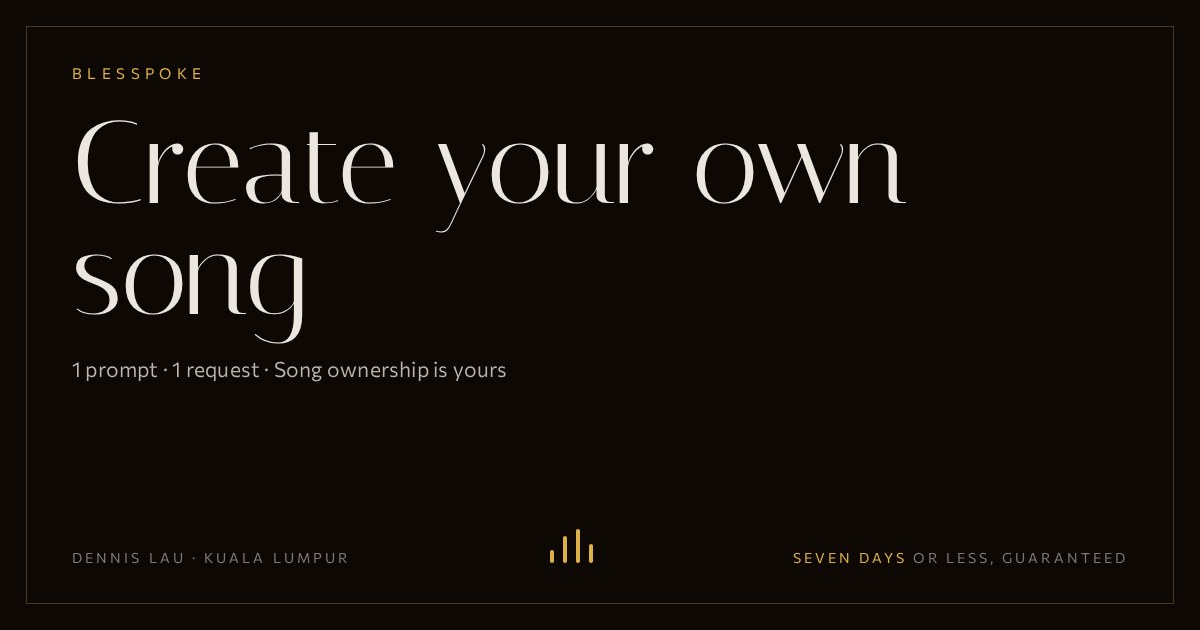
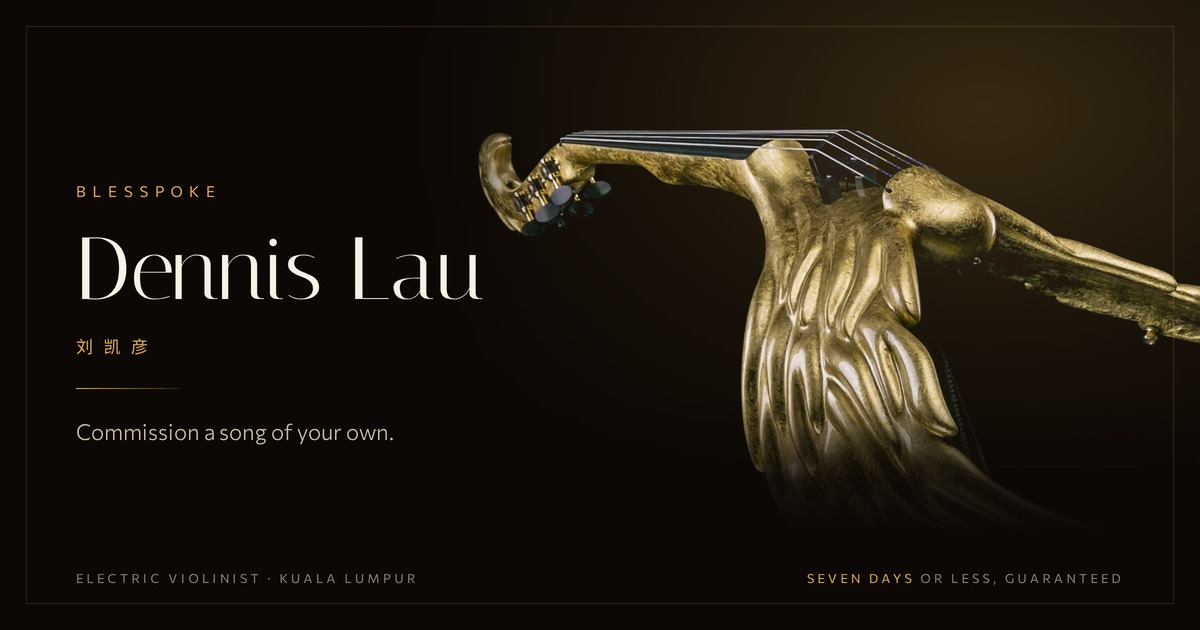
A mark of his own, a card worth sharing, and metadata that says what this is
The favicon was four gold bars at the heights of a signal, which is every
audio product on the internet and nothing to do with Dennis. His violin is
carved as a bird's wing, so the wing is the mark: three feathers off one
shoulder, gold on lacquer.

Three and not five. Five is the better drawing at 128px and unreadable at
16, where every feather gets two pixels and the gaps between them get one,
and 16 is the only size a favicon is ever actually seen at. Filled leaves
rather than strokes, because an SVG stroke cannot taper and an untapered
fan reads as a comb. Four sizes ship, plus a touch icon that bleeds to its
own edges because the OS rounds that one itself.

The share card was all type on black with the bottom half empty and no
sign of him anywhere. It is the Phoenix now, lit against lacquer with his
name in Italiana beside it. The photograph is composited with lighten
rather than pasted: it is on pure black, the ground is warm, and dropping
it in as a rectangle leaves a seam down its left edge. The display stand
sinks into a floor gradient, which is also how the page treats it.

Both generators are checked in under tools/ this time. The old one was
not, and the handoff had to say so.

The metadata was thin and the description opened on "One prompt. One
request.", which is the clipped-fragment tic we have been taking out of
the page all week. There is now a canonical, a manifest, a sitemap that
lists only the homepage — the concept routes are client-side and Pages
[…]

diff --git a/index.html b/index.html
@@ -3,44 +3,140 @@
   <head>
     <meta charset="UTF-8" />
     <meta name="viewport" content="width=device-width, initial-scale=1, viewport-fit=cover" />
-    <title>Blesspoke · Create your own song</title>
+
+    <title>Blesspoke · Commission a song from Dennis Lau</title>
     <meta
       name="description"
-      content="One prompt. One request. One song, written and produced for you by Dennis Lau, guaranteed in seven days or less, and the ownership is yours."
+      content="Malaysia's foremost electric violinist writes and produces one original song for you. A sample inside seven days, and the finished song is yours outright."
     />
+    <meta name="author" content="Dennis Lau" />
+    <link rel="canonical" href="%VITE_SITE_URL%/" />
+    <meta name="robots" content="index, follow, max-image-preview:large" />
+
+    <!-- The mark is three feathers off one shoulder: his six-string violin, the
+         Phoenix, is carved as a bird's wing. SVG first for anything modern, the
+         two PNGs for browsers that still want a raster, and the touch icon
+         bleeds to its own edges because the OS rounds that one itself. -->
     <link rel="icon" href="%VITE_BASE%icon.svg" type="image/svg+xml" />
-    <link rel="apple-touch-icon" href="%VITE_BASE%icon.svg" />
+    <link rel="icon" href="%VITE_BASE%favicon-32.png" sizes="32x32" type="image/png" />
+    <link rel="icon" href="%VITE_BASE%favicon-16.png" sizes="16x16" type="image/png" />
+    <link rel="apple-touch-icon" href="%VITE_BASE%apple-touch-icon.png" />
+    <link rel="manifest" href="%VITE_BASE%site.webmanifest" />
 
     <!-- The origin comes from VITE_SITE_URL at build time; see .env. Link
-         scrapers do not reliably resolve a relative image, so once the
-         publishing account is settled this must be an absolute URL. -->
+         scrapers do not reliably resolve a relative image, so this must be an
+         absolute URL. -->
     <meta property="og:type" content="website" />
     <meta property="og:site_name" content="Blesspoke" />
-    <meta property="og:title" content="Blesspoke · Create your own song" />
+    <meta property="og:locale" content="en_MY" />
+    <meta property="og:title" content="Dennis Lau · Commission a song of your own" />
     <meta
       property="og:description"
-      content="One prompt. One request. One song, written and produced for you by Dennis Lau, guaranteed in seven days or less, and the ownership is yours."
+      content="Dennis Lau is Malaysia's foremost electric violinist and the first performer anywhere to take a six-string 24K gold violin onto a stage. Commission an original song, written and produced by him."
     />
     <meta property="og:url" content="%VITE_SITE_URL%/" />
     <meta property="og:image" content="%VITE_SITE_URL%/og.jpg" />
+    <meta property="og:image:type" content="image/jpeg" />
     <meta property="og:image:width" content="1200" />
     <meta property="og:image:height" content="630" />
     <meta
       property="og:image:alt"
-      content="Create your own song. One prompt, one request, and the song is yours."
+      content="The Phoenix, Dennis Lau's six-string 24K gold violin carved as a bird's wing, lit against black beside his name."
     />
     <meta name="twitter:card" content="summary_large_image" />
-    <meta name="twitter:title" content="Blesspoke · Create your own song" />
+    <meta name="twitter:title" content="Dennis Lau · Commission a song of your own" />
     <meta
       name="twitter:description"
-      content="One song, written and produced for you by Dennis Lau. Guaranteed in seven days or less."
+      content="Malaysia's foremost electric violinist writes and produces one original song for you. A sample inside seven days, and the finished song is yours outright."
     />
     <meta name="twitter:image" content="%VITE_SITE_URL%/og.jpg" />
+    <meta
+      name="twitter:image:alt"
+      content="The Phoenix, Dennis Lau's six-string 24K gold violin carved as a bird's wing, lit against black beside his name."
+    />
+
+    <!-- Structured data. The Person's own `url` points at his site rather than
+         this one on purpose: this page is Blesspoke, the commission service he
+         provides, and saying otherwise would claim to be his homepage. `sameAs`
+         is what ties the entity together for a search engine. -->
+    <script type="application/ld+json">
+      {
+        "@context": "https://schema.org",
+        "@graph": [
+          {
+            "@type": "Person",
+            "@id": "%VITE_SITE_URL%/#dennis",
+            "name": "Dennis Lau",
+            "alternateName": "刘凯彦",
+            "url": "https://dennislau.thechosen.io",
+            "image": "%VITE_SITE_URL%/og.jpg",
+            "jobTitle": "Electric violinist, composer and producer",
+            "description": "Malaysia's foremost electric violinist. Classically trained from the age of three, and the first performer anywhere to take a six-string 24K gold violin onto a stage.",
+            "birthPlace": { "@type": "Place", "name": "Perak, Malaysia" },
+            "nationality": { "@type": "Country", "name": "Malaysia" },
+            "address": {
+              "@type": "PostalAddress",
+              "addressLocality": "Kuala Lumpur",
+              "addressCountry": "MY"
+            },
+            "knowsAbout": ["Violin", "Composition", "Music production"],
+            "award": [
+              "Malaysian Book of Records, for the gold six-string Phoenix violin",
+              "VIMA Music Awards, Best Producer, 2009",
+              "Trinity College London, Award for Outstanding Performance"
+            ],
+            "sameAs": [
+              "https://dennislau.thechosen.io",
+              "https://instagram.com/dennisviolin",
+              "https://www.youtube.com/@DennisLauTV",
+              "https://facebook.com/MosaicMusicEntertainment",
+              "https://x.com/dennislauviolin"
+            ]
+          },
+          {
+            "@type": "WebSite",
+            "@id": "%VITE_SITE_URL%/#site",
+            "name": "Blesspoke",
+            "url": "%VITE_SITE_URL%/",
+            "inLanguage": "en",
+            "description": "Commission an original song, written and produced by Dennis Lau.",
+            "about": { "@id": "%VITE_SITE_URL%/#dennis" }
+          },
+          {
+            "@type": "Service",
+            "@id": "%VITE_SITE_URL%/#commission",
+            "name": "Blesspoke commission",
+            "serviceType": "Bespoke music composition and production",
+            "description": "One original song, written and produced for a single client. A private sample inside seven days, two rounds of changes, and full transfer of the composition copyright and master recording on delivery.",
+            "provider": { "@id": "%VITE_SITE_URL%/#dennis" },
+            "areaServed": "Worldwide",
+            "offers": [
+              {
+                "@type": "Offer",
+                "name": "Full original song",
+                "description": "Three to four minutes, with lyrics if required.",
+                "price": "2500",
+                "priceCurrency": "USD",
+                "availability": "https://schema.org/InStock"
+              },
+              {
+                "@type": "Offer",
+                "name": "Original music track",
+                "description": "Up to ninety seconds, for a campaign, a brand film, an opening or a launch.",
+                "price": "1500",
+                "priceCurrency": "USD",
+                "availability": "https://schema.org/InStock"
+              }
+            ]
+          }
+        ]
+      }
+    </script>
 
     <link rel="preconnect" href="https://fonts.googleapis.com" />
     <link rel="preconnect" href="https://fonts.gstatic.com" crossorigin />
     <meta name="color-scheme" content="dark light" />
-    <meta name="theme-color" content="#241a10" />
+    <meta name="theme-color" content="#17110a" />
   </head>
   <body>
     <div id="root"></div>

diff --git a/tools/icon.py b/tools/icon.py
@@ -1,0 +1,54 @@
+import math
+
+def leaf(ax, ay, bx, by, w, bow, belly=0.30, taper=0.70):
+    dx, dy = bx - ax, by - ay
+    L = math.hypot(dx, dy)
+    ux, uy = dx / L, dy / L
+    nx, ny = -uy, ux
+    def P(t, s):
+        o = bow * math.sin(math.pi * t)
+        return (ax + ux * L * t + nx * (w * s + o), ay + uy * L * t + ny * (w * s + o))
+    f = lambda p: f"{p[0]:.2f} {p[1]:.2f}"
+    return ("M" + f(P(0, 0)) + "C" + f(P(belly, 1.0)) + " " + f(P(taper, 0.78)) + " " + f(P(1, 0)) +
+            "C" + f(P(taper, -0.78)) + " " + f(P(belly, -1.0)) + " " + f(P(0, 0)) + "Z")
+
+# Optically centred in the tile: the drawn mark ran low and right, which left a
+# corner of dead lacquer at the top left.
+SHIFT_X, SHIFT_Y = -0.9, -2.4
+THREE = [(6.4, 10.4, 28.4, 15.0, 3.55, -1.60),
+         (6.0, 13.6, 25.4, 23.2, 3.55, -1.25),
+         (6.4, 17.0, 18.0, 28.0, 2.85, -0.85)]
+paths = "".join(
+    f'\n    <path d="{leaf(ax + SHIFT_X, ay + SHIFT_Y, bx + SHIFT_X, by + SHIFT_Y, w, bow)}"/>'
+    for ax, ay, bx, by, w, bow in THREE)
+
+MARK = f'''  <g fill="url(#dl-gold)" stroke="#17110a" stroke-width="1.05" stroke-linejoin="round">{paths}
+  </g>'''
+
+DEFS = '''  <defs>
+    <linearGradient id="dl-gold" x1="0.1" y1="0" x2="0.9" y2="1">
+      <stop offset="0%" stop-color="#f9e2ac"/>
+      <stop offset="40%" stop-color="#e3b155"/>
+      <stop offset="100%" stop-color="#9c6a1b"/>
+    </linearGradient>
+  </defs>'''
+
+HEAD = '''<svg xmlns="http://www.w3.org/2000/svg" viewBox="0 0 32 32" role="img" aria-label="Dennis Lau">
+  <!-- Three feathers off one shoulder: the Phoenix, his six-string violin, is
+       carved as a bird's wing, so the wing is the mark.
+
+       Three and not five. Five is a better drawing at 128px and unreadable at
+       16, where every feather gets two pixels and the gaps between them get
+       one; three broad ones survive the browser tab, which is the only size
+       this file is ever seen at. Filled leaves rather than strokes, because an
+       SVG stroke cannot taper and an untapered fan reads as a comb. Each is
+       separated by a hairline of the lacquer behind it so the overlaps still
+       read when it is four pixels wide. -->'''
+
+open("icon.svg", "w").write(f'{HEAD}\n{DEFS}\n  <rect width="32" height="32" rx="7" fill="#17110a"/>\n{MARK}\n</svg>\n')
+# The tab icon is masked square by some browsers, so the rounding lives here;
+# the touch icon is rounded by the OS and must bleed to its own edges.
+open("icon-touch.svg", "w").write(
+    f'{HEAD}\n{DEFS}\n  <rect width="32" height="32" fill="#17110a"/>\n'
+    f'  <g transform="translate(16 16) scale(0.84) translate(-16 -16)">\n{MARK}\n  </g>\n</svg>\n')
+print("wrote icon.svg + icon-touch.svg")

diff --git a/HANDOFF.md b/HANDOFF.md
@@ -757,10 +757,45 @@ transcoding to ~128 kbps VBR roughly halves it — but treat that as the user's
 call, not a default.
 
 `public/icon.svg` — four bars, the open strings at the heights of a signal.
-`public/og.jpg` — 1200×630, typeset in the real Italiana by rendering an HTML
-page in Playwright and screenshotting it, rather than mocked up in an image
-editor. The generator is not checked in; regenerate the same way if the copy
-changes.
+### The mark, the card, and the metadata
+
+Everything below is generated, and **the generators are checked in under
+`tools/`**. Regenerate rather than hand-editing the output.
+
+- `tools/icon.py` → `public/icon.svg`, `public/icon-touch.svg`. Three feathers
+  off one shoulder: the Phoenix, his six-string violin, is carved as a bird's
+  wing, so the wing is the mark. Three and not five — five is the better drawing
+  at 128px and unreadable at 16, where each feather gets two pixels and the gaps
+  between them get one. Filled leaves rather than strokes, because an SVG stroke
+  cannot taper and an untapered fan reads as a comb.
+- `tools/raster.mjs` → `favicon-16.png`, `favicon-32.png`,
+  `apple-touch-icon.png` (180), `icon-512.png`. The touch icon bleeds to its own
+  edges because the OS rounds that one itself; the tab icon carries its own
+  rounding.
+- `tools/og.mjs` → `public/og.jpg`, 1200×630, rendered at 2× and downsampled.
+  Typeset in the real Italiana by rendering a page in Playwright rather than
+  mocked up in an image editor. Two things it has to do that are not obvious:
+  the page is **written to disk and opened as a `file://` URL**, because
+  `setContent` leaves the document on an `about:blank` origin which may not
+  fetch `file://` resources and the photograph silently never loads; and the
+  photograph is composited with `mix-blend-mode: lighten` rather than pasted,
+  because it is on pure black and the ground is warm lacquer, so a plain drop-in
+  leaves a visible seam down its left edge.
+
+`index.html` carries a JSON-LD `@graph` of three nodes: `Person` (Dennis),
+`WebSite` (Blesspoke) and `Service` (the commission, with both tiers as
+`Offer`s). **The Person's own `url` points at `dennislau.thechosen.io`, not at
+this site**, on purpose — this page is the service he provides, and saying
+otherwise would claim to be his homepage. `sameAs` is what ties the entity
+together for a search engine.
+
+`public/sitemap.xml` lists **only the homepage**. The three concept routes are
+client-side and GitHub Pages answers them from `404.html`, so they return HTTP
+404 with the app as their body; listing them would report soft 404s.
+`public/robots.txt` is served from `/blesspoke/`, where a crawler reading the
+origin root will never see it. It is there so a move to a custom domain needs no
+new work. `site.webmanifest` uses **relative** icon paths so it survives a
+change of base path; the sitemap cannot, and carries the origin literally.
 
 ### The instrument, and how the stand came off it
 
